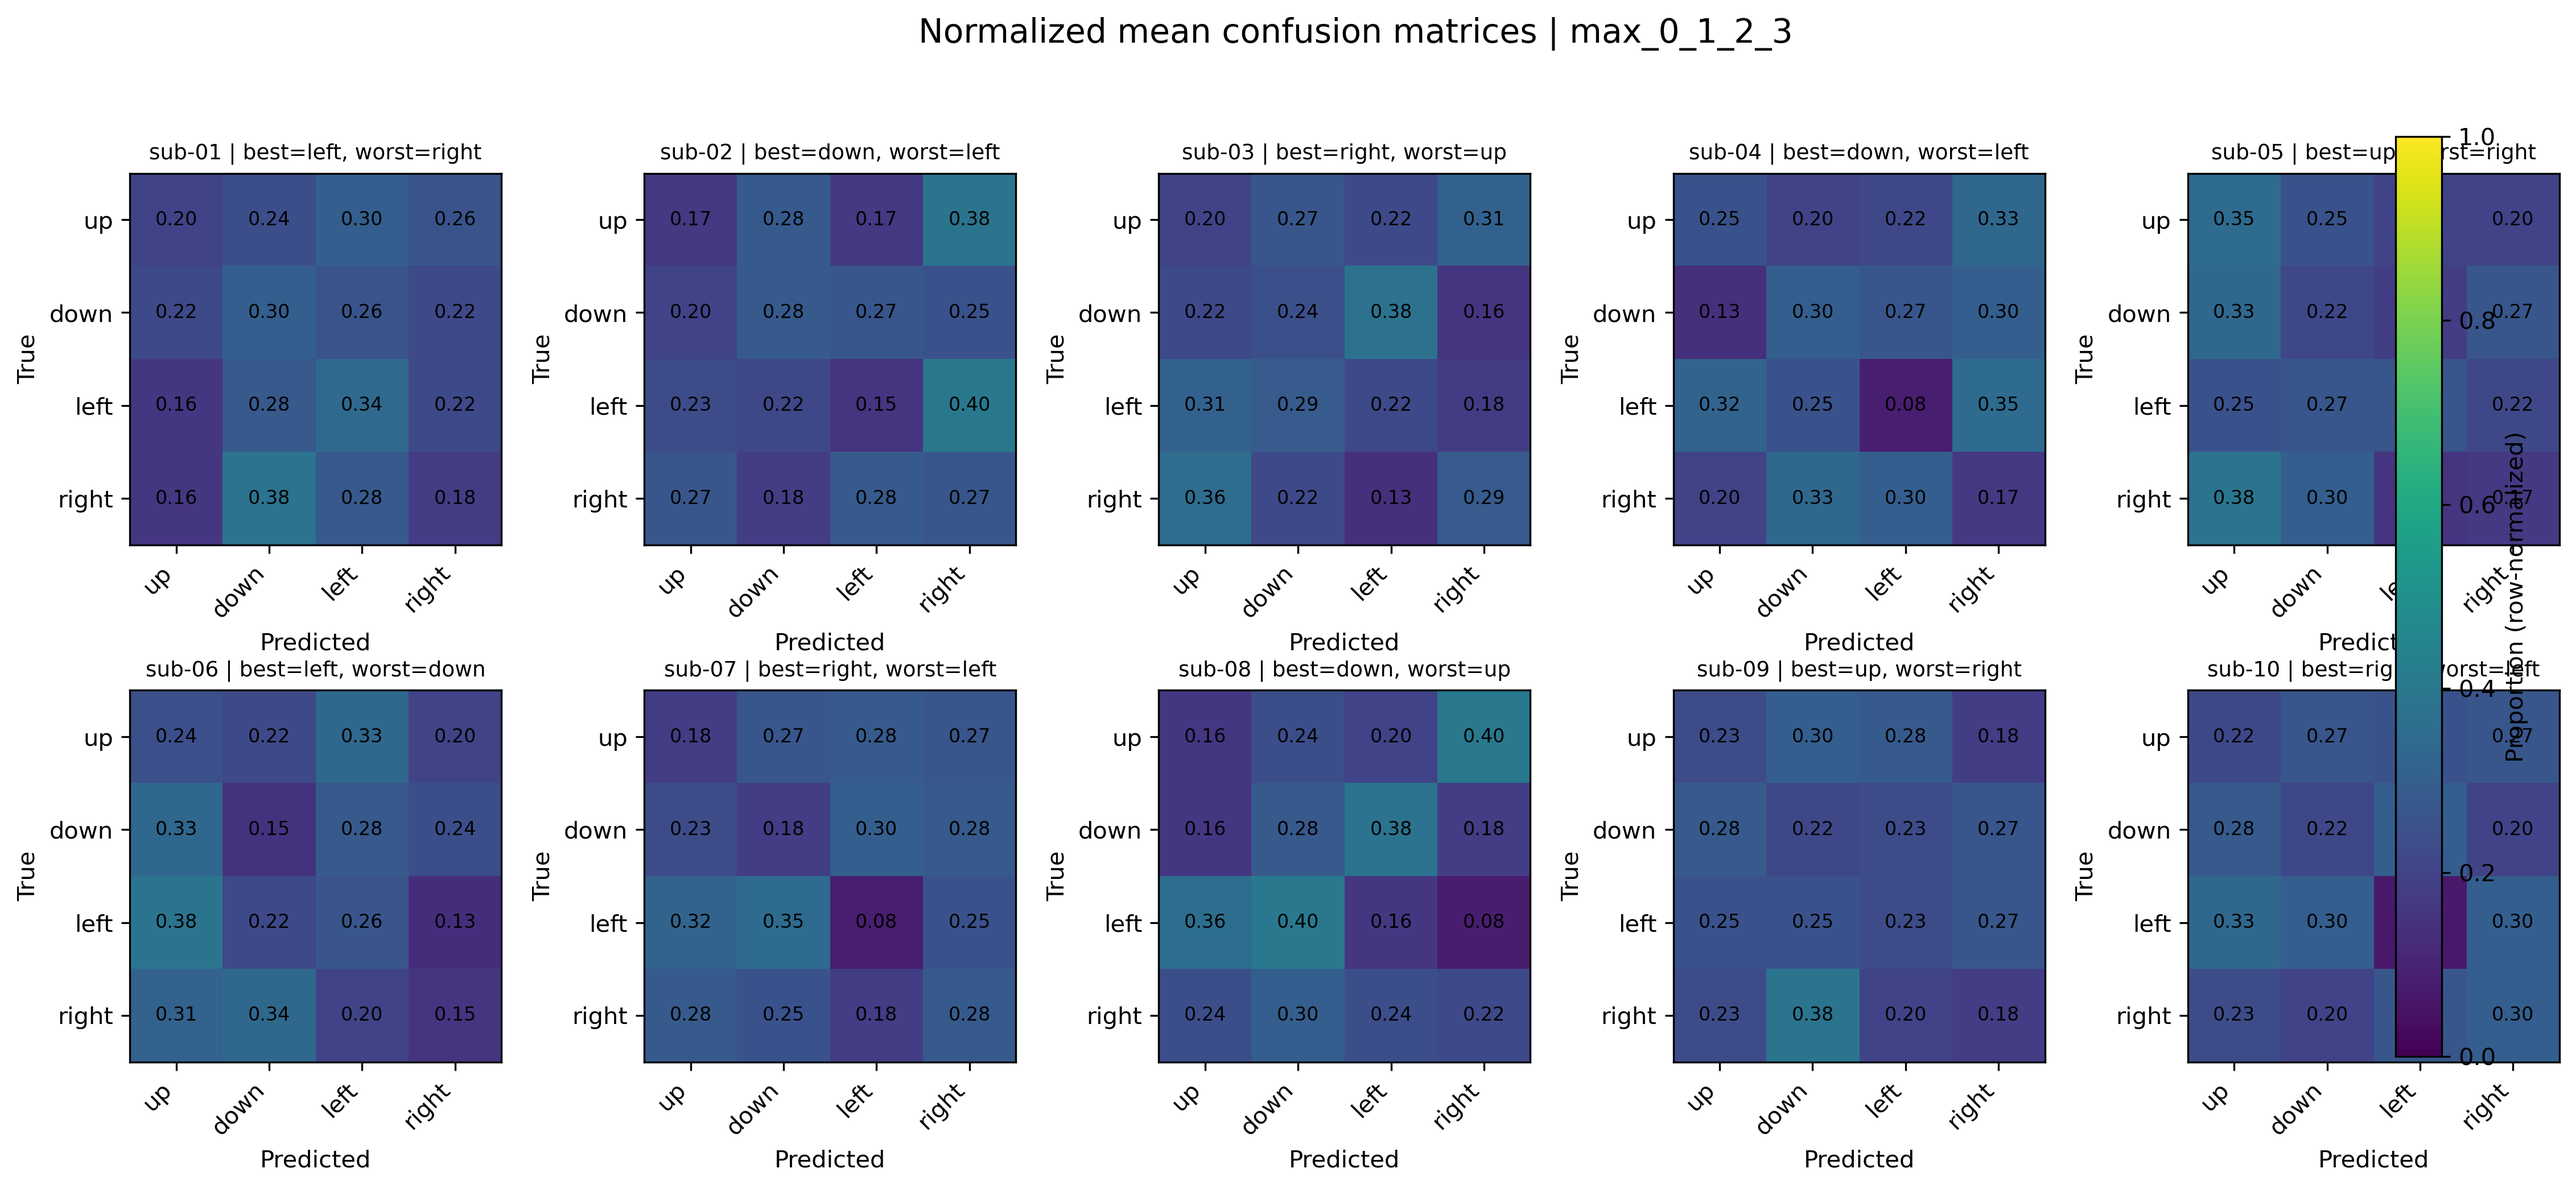
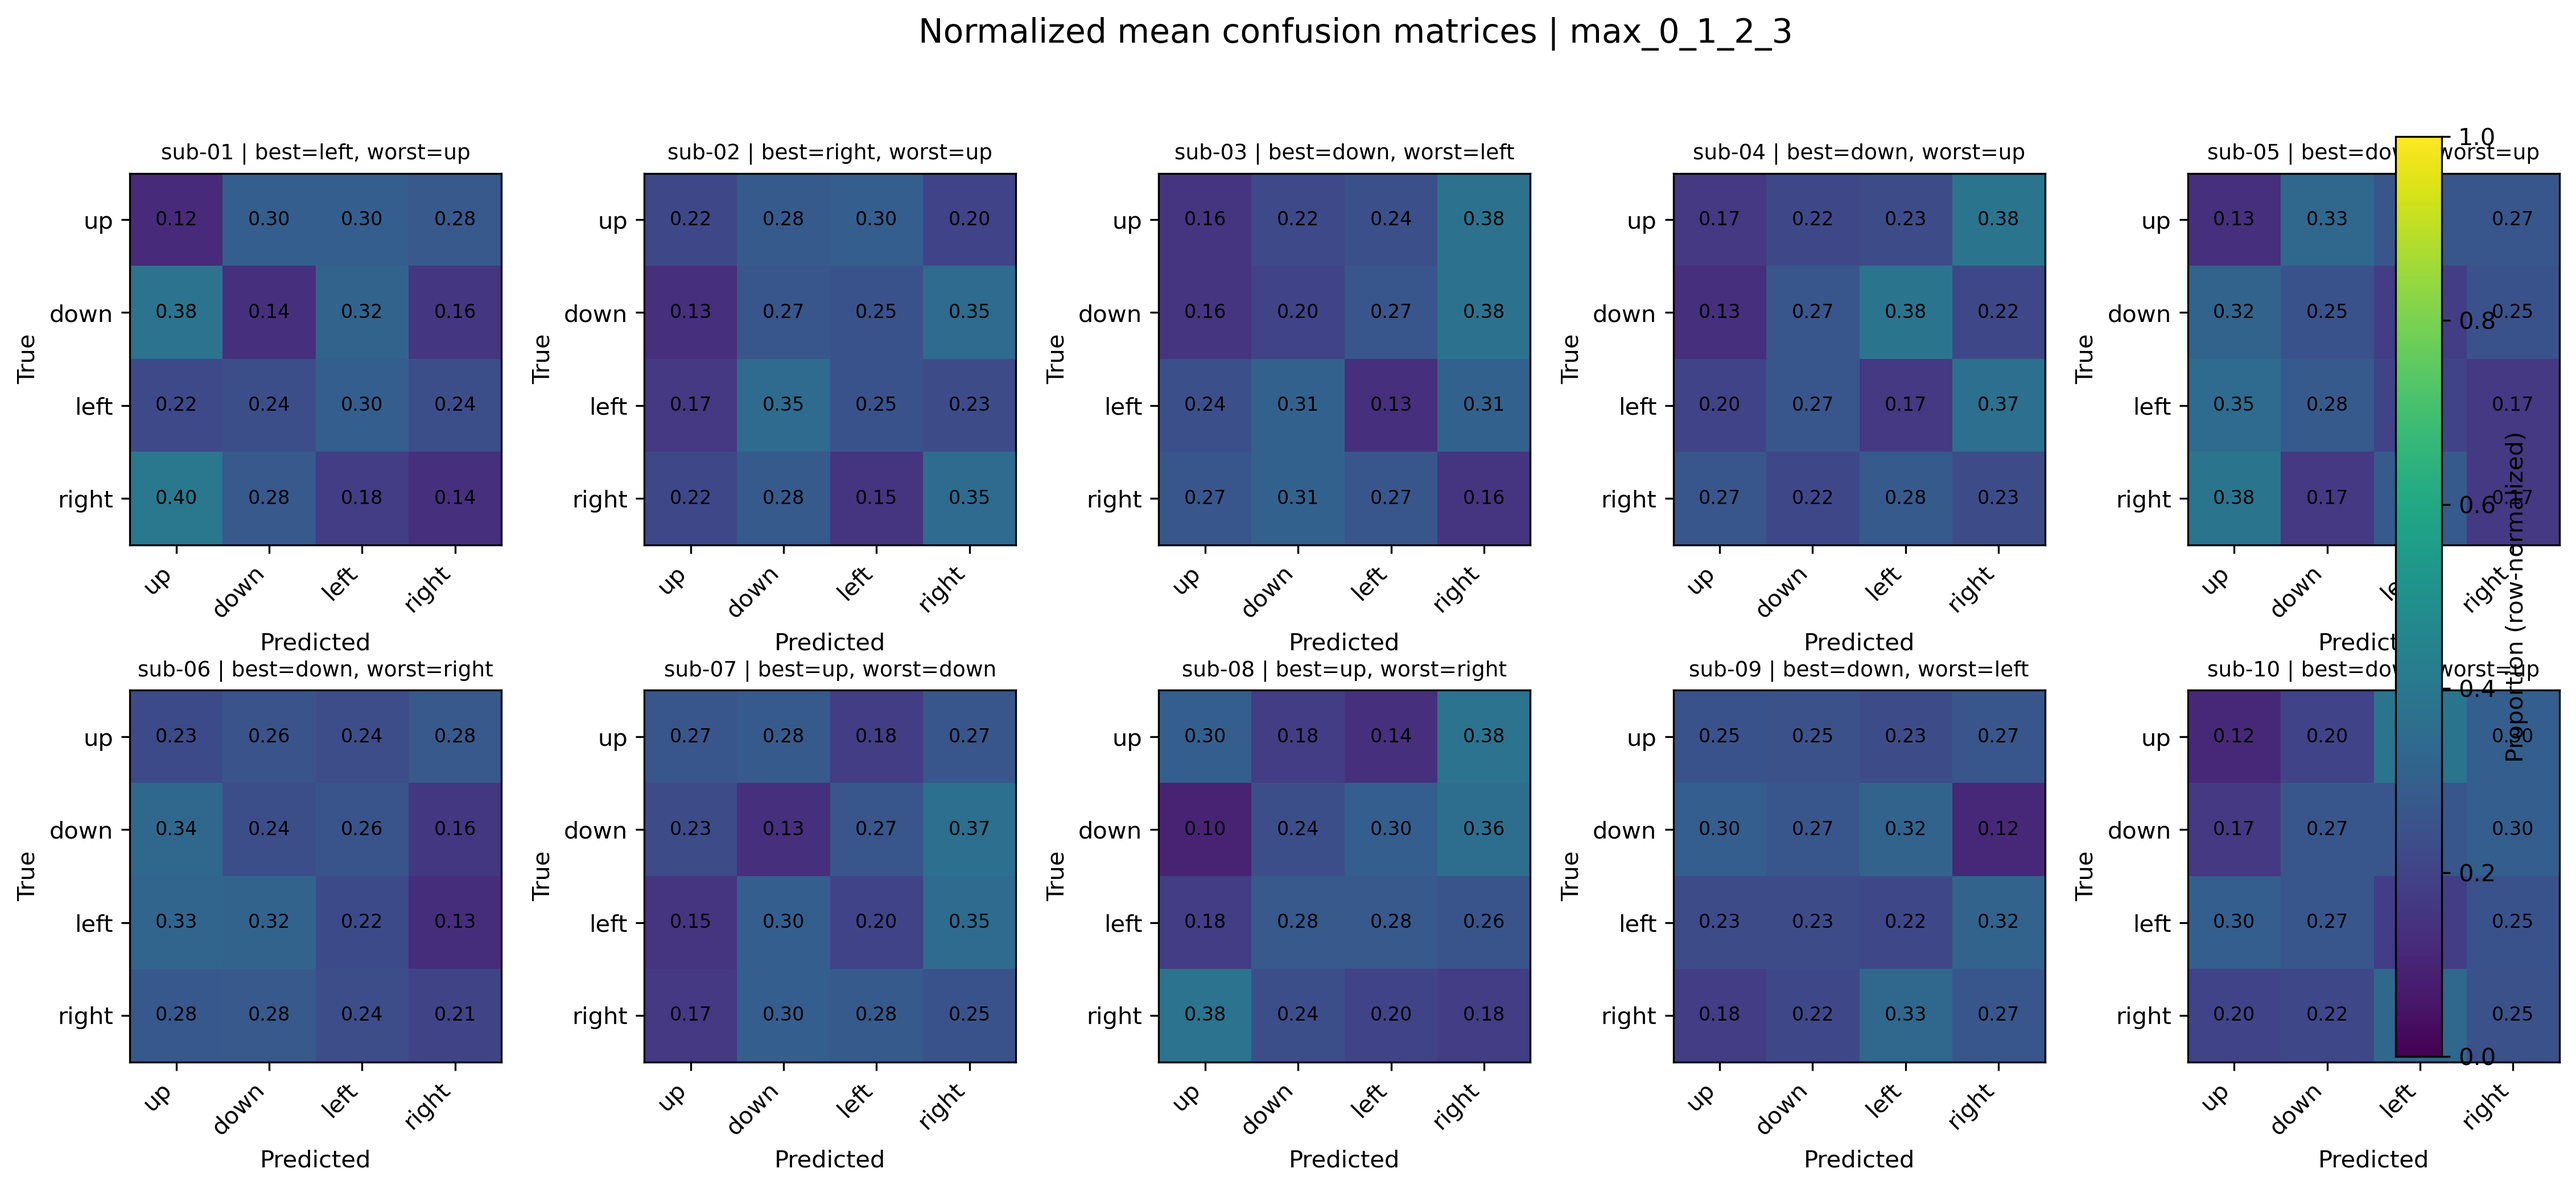
added selector to data classifier

diff --git a/pipeline/stage_90_maximum_matrix_based_SVM/maximum_matrix_based_SVM.py b/pipeline/stage_90_maximum_matrix_based_SVM/maximum_matrix_based_SVM.py
@@ -8,6 +8,8 @@ from sklearn.preprocessing import StandardScaler
 from sklearn.model_selection import StratifiedKFold
 
 from sklearn.metrics import accuracy_score, confusion_matrix
+from sklearn.feature_selection import SelectKBest, f_classif
+
 
 import pickle
 
@@ -88,8 +90,8 @@ def run_maximum_matrix_based_SVM():
         for max_type in range(subject_graph_measures.shape[2]):
 
             # Seleciona um tipo de matriz de máximo:
-            # max_type 0 -> Max(0,1,2,3)
-            # max_type 1 -> Max(1,2,3)
+            # max_type = 0 -> Max(0,1,2,3)
+            # max_type = 1 -> Max(1,2,3)
             X = subject_graph_measures[:, :, max_type, :, :]
 
             # Transforma em matriz 2D: (n_epochs, n_features)
@@ -97,6 +99,12 @@ def run_maximum_matrix_based_SVM():
 
             model = Pipeline([
                 ("scaler", StandardScaler()),
+
+                ("selector", SelectKBest(
+                    score_func=f_classif,
+                    k=2000
+                )),               
+
                 ("svm", SVC(
                     kernel="rbf",
                     C=1.0,
@@ -105,6 +113,7 @@ def run_maximum_matrix_based_SVM():
                     tol=1e-3,
                     max_iter=-1 
                 ))
+
             ])
 
             cv = StratifiedKFold(

diff --git a/pipeline/stage_100_generate_results/generate_confusion_matrix_for_maximum_matrix.py b/pipeline/stage_100_generate_results/generate_confusion_matrix_for_maximum_matrix.py
@@ -24,7 +24,7 @@ def run_generate_confusion_matrix_for_maximum_matrix():
 
     class_names = ["up", "down", "left", "right"]
 
-    for max_type_name in ["max_1_2_3", "max_0_1_2_3" ]:
+    for max_type_name in ["max_0_1_2_3", "max_1_2_3" ]:
 
         fig, axes = plt.subplots(2, 5, figsize=(16, 7))
         axes = axes.ravel()
@@ -92,7 +92,7 @@ def run_generate_confusion_matrix_for_maximum_matrix():
         )
 
         plt.savefig(save_path, dpi=300, bbox_inches="tight")
-        #plt.show()
+        plt.show()
 
 if __name__ == "__main__":
 

diff --git a/main.py b/main.py
@@ -25,15 +25,15 @@ def main():
 
     #run_lag_based_SVM()
 
-    run_generate_accuracy_table()
+    #run_generate_accuracy_table()
 
     #run_maximum_matrix()
 
     #run_maximum_matrix_graph_measure()
 
-    #run_maximum_matrix_based_SVM()
+    run_maximum_matrix_based_SVM()
 
-    #run_generate_confusion_matrix_for_maximum_matrix()
+    run_generate_confusion_matrix_for_maximum_matrix()
 
     
 
